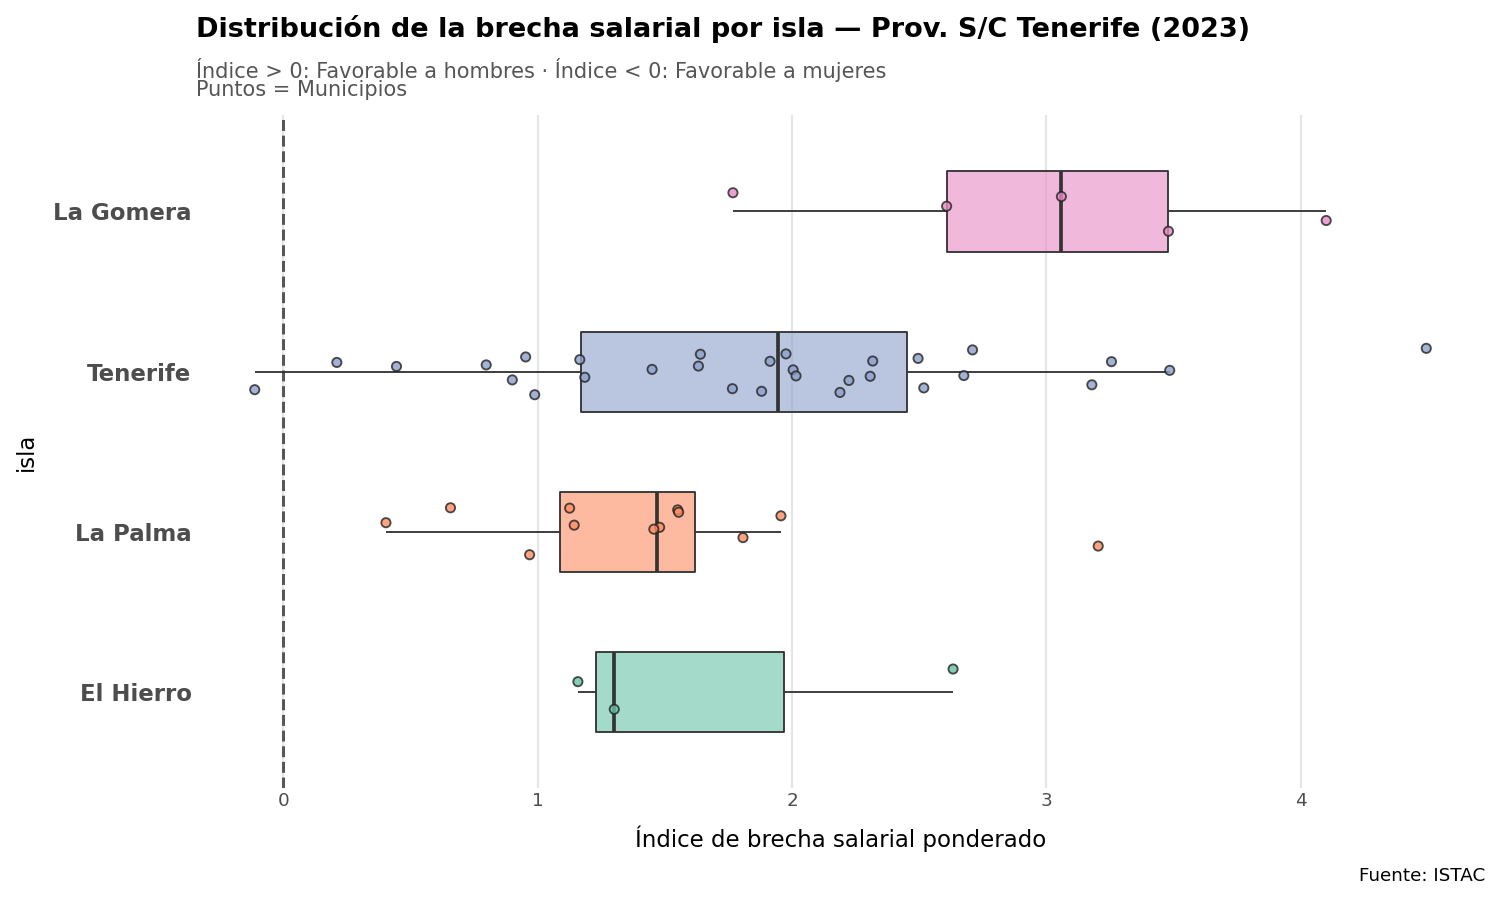
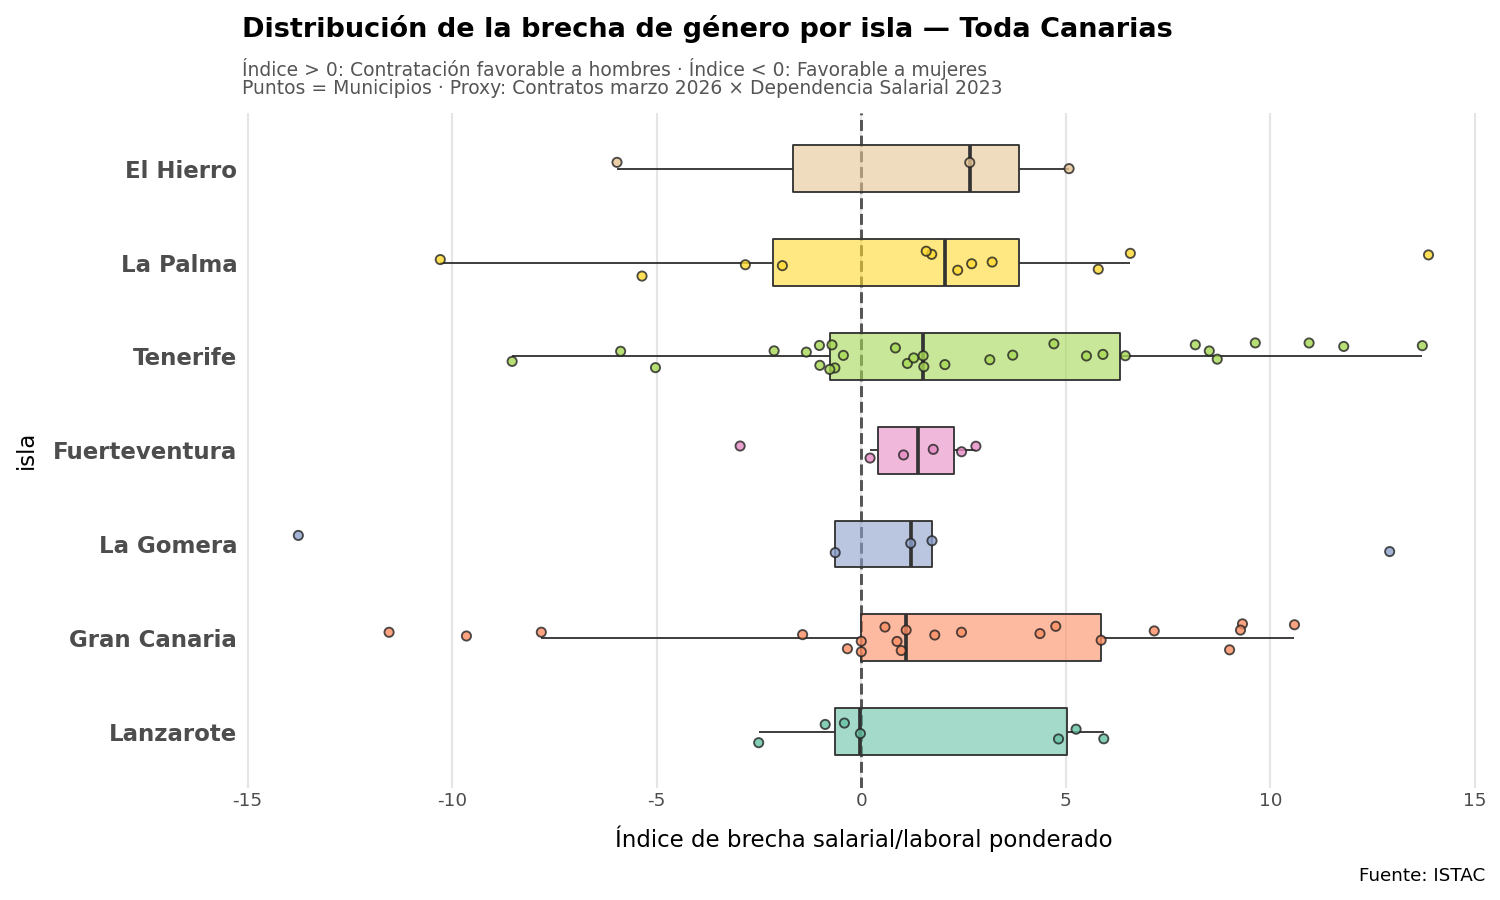
fix

diff --git a/assets_proyecto5/plots_assets.py b/assets_proyecto5/plots_assets.py
@@ -885,7 +885,7 @@ def plot_precariedad_genero(context: AssetExecutionContext) -> None:
         + geom_col(width=0.6, alpha=0.9, color="white", size=0.5)
         + geom_text(
             aes(label="round(pct, 1).astype(str) + '%'"), 
-            position=position_stack(vjust=0.5), size=10, color="white", fontdict={'weight': 'bold'}
+            position=position_stack(vjust=0.5), size=10, color="white", fontweight='bold'
         )
         + coord_flip()
         + scale_fill_manual(
